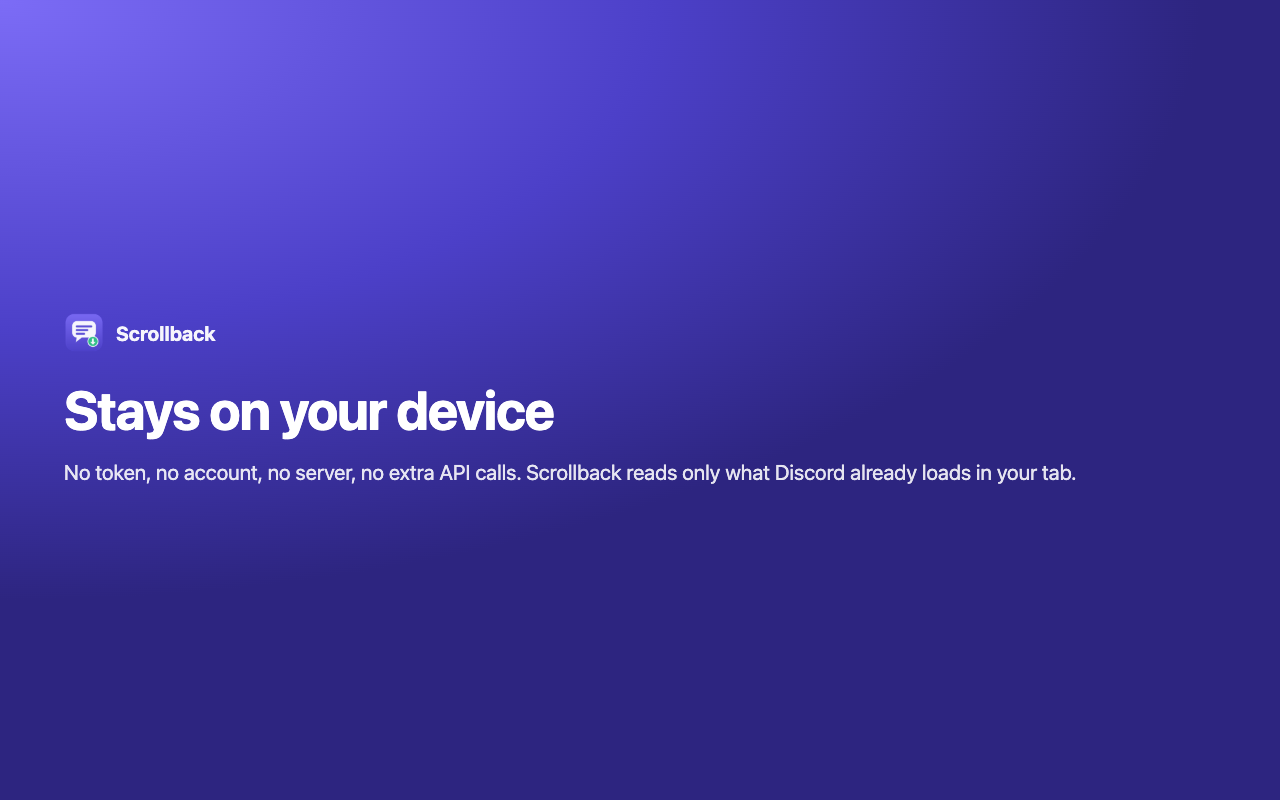
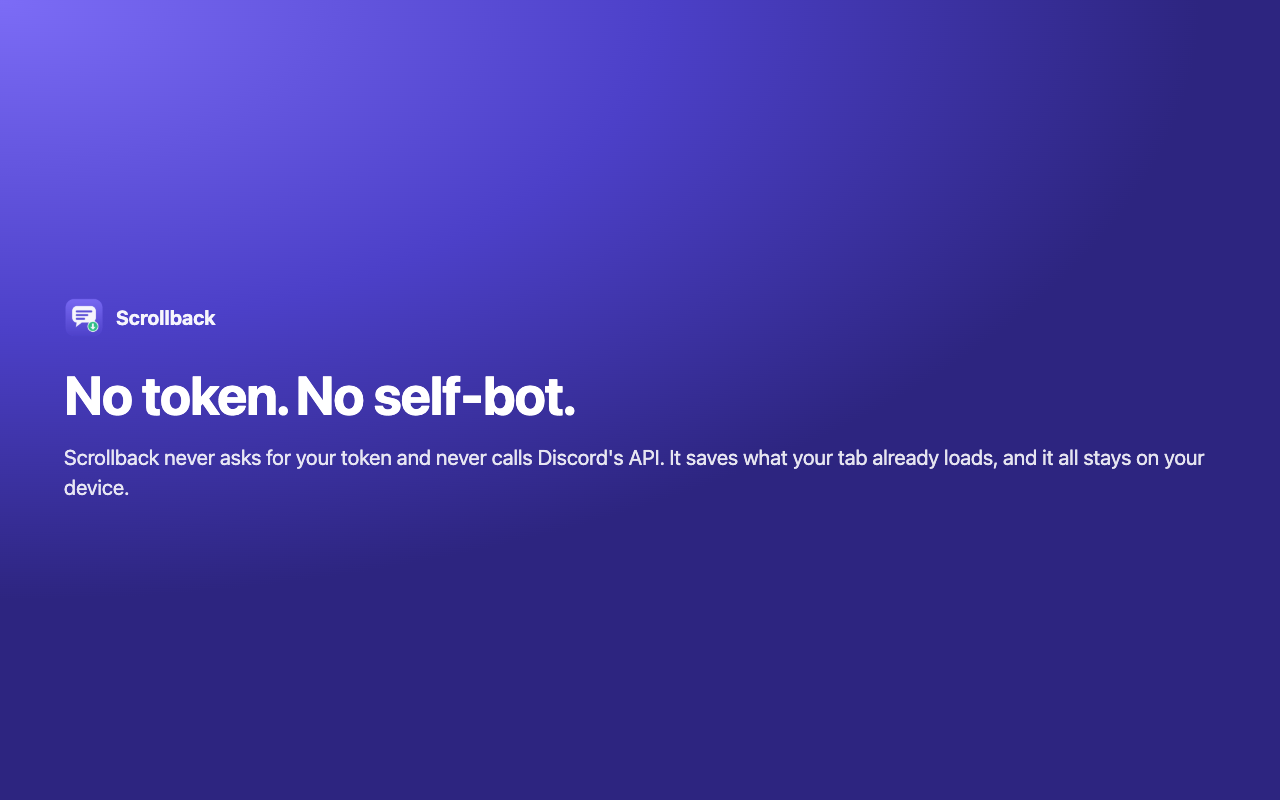
Lead the listing with no token and no self-bot

Changed region(s): [[0.0312, 0.4688, 0.9375, 0.625], [0.0312, 0.375, 0.1875, 0.4375]]

diff --git a/scripts/store-shots.js b/scripts/store-shots.js
@@ -134,9 +134,9 @@ async function frame(ctx, file, { title, sub, img, w = 1280, h = 800, imgW }) {
   await frame(ctx, path.join(S, '2-history.png'), { title: 'Load 7 days, 90 days or everything', sub: 'Scrollback scrolls the chat for you and shows progress right on the page.', img: path.join(RAW, 'job.png') });
   await frame(ctx, path.join(S, '3-library.png'), { title: 'Every saved chat in one place', sub: 'Search messages, export by date range, back up and restore.', img: path.join(RAW, 'library.png') });
   await frame(ctx, path.join(S, '4-export.png'), { title: 'Clean exports you can read', sub: 'Replies, reactions, images and day headers. Light and dark mode.', img: path.join(RAW, 'export.png') });
-  await frame(ctx, path.join(S, '5-privacy.png'), { title: 'Stays on your device', sub: 'No token, no account, no server, no extra API calls. Scrollback reads only what Discord already loads in your tab.' });
-  await frame(ctx, path.join(OUT, 'promo-440x280.png'), { title: 'Save your Discord chats', w: 440, h: 280 });
-  await frame(ctx, path.join(OUT, 'marquee-1400x560.png'), { title: 'Save, search and export your Discord chats', sub: 'Local only. No token. No extra API calls.', w: 1400, h: 560 });
+  await frame(ctx, path.join(S, '5-privacy.png'), { title: 'No token. No self-bot.', sub: 'Scrollback never asks for your token and never calls Discord\'s API. It saves what your tab already loads, and it all stays on your device.' });
+  await frame(ctx, path.join(OUT, 'promo-440x280.png'), { title: 'Export Discord chats. No token.', w: 440, h: 280 });
+  await frame(ctx, path.join(OUT, 'marquee-1400x560.png'), { title: 'Export your Discord chats without your token', sub: 'No token. No self-bot. It saves only what your Discord tab already loads.', w: 1400, h: 560 });
   fs.copyFileSync(path.join(OUT, '../icons/128.png'), path.join(OUT, 'icon-128.png'));
   await ctx.close();
   console.log(fs.readdirSync(S).filter((f) => f.endsWith('.png')).join('\n'));

diff --git a/README.md b/README.md
@@ -1,12 +1,12 @@
 <p align="center">
-  <img src="store/marquee-1400x560.png" alt="Scrollback: save, search and export your Discord chats" width="100%">
+  <img src="store/marquee-1400x560.png" alt="Scrollback: export your Discord chats without your token" width="100%">
 </p>
 
 <h1 align="center">Scrollback</h1>
 
 <p align="center">
   <b>Save, search and export the Discord chats you can already see.</b><br>
-  Local only. No token. No extra API calls.
+  No token. No self-bot. Local only.
 </p>
 
 <p align="center">
@@ -29,6 +29,19 @@
 Scrollback is a Chrome extension that keeps a copy of every Discord message your browser loads. Copy a whole chat in one click, export it to five formats, or let it scroll back through 7 days, 90 days or the full history for you.
 
 It never touches your login token and never calls Discord's API. It reads only the responses the Discord web app already downloads, so it acts the same as you scrolling by hand.
+
+### Why no token?
+
+Most Discord exporters ask for your login token and call Discord's API from a separate program. Discord treats that as a self-bot, and accounts get banned for it. Scrollback takes a different route:
+
+| | Token-based exporters | Scrollback |
+|---|---|---|
+| Needs your login token | Yes | No |
+| Who talks to Discord | The exporter, directly | Your normal Discord tab |
+| Speed of history loads | As fast as the API allows | A person scrolling |
+| Works offline on saved chats | No | Yes, from the library |
+
+History jobs still make Discord's client load pages, the same as scrolling by hand. For very large servers, set the pace to Gentle in the library settings.
 
 <table>
   <tr>

diff --git a/store/listing.md b/store/listing.md
@@ -4,11 +4,11 @@ Paste each block into the matching field of the developer dashboard.
 
 ## Item name (max 75)
 
-Scrollback: Chat Exporter for Discord
+Scrollback: Chat Exporter for Discord, No Token
 
 ## Summary (max 132)
 
-Save Discord chats you can already see to TXT, Markdown, HTML, JSON or CSV. Local only. No token, no extra API calls.
+Export Discord chats to TXT, Markdown, HTML, JSON or CSV. No token, no self-bot. It saves only what your Discord tab already loads.
 
 ## Category
 
@@ -23,6 +23,9 @@ English
 Scrollback keeps a copy of the Discord messages you open, so you can search them, export them and keep them.
 
 It works by reading the message lists your Discord tab already downloads. It sends no requests to Discord of its own and never touches your login token. Everything stays in your browser.
+
+NO TOKEN, NO SELF-BOT
+Most Discord exporters ask you to paste your login token into a separate program, which then calls Discord's API directly. That is a self-bot, and Discord bans accounts for it. Scrollback never asks for your token and never calls the API. When it loads history, it scrolls the real chat in your tab, at a person's pace, so Discord's own client does the loading.
 
 WHAT YOU CAN DO
 • Copy a whole chat to the clipboard in one click, ready to paste into notes or an AI assistant

diff --git a/CHANGELOG.md b/CHANGELOG.md
@@ -5,6 +5,7 @@
 - New: Scrollback remembers which stretches of a chat it saved with no gaps. A 7d / 30d / 90d / All run that is already covered copies to the clipboard instantly, with no scrolling. When new messages arrived since last time, it loads only that gap and stops. Server jobs skip channels that are already covered. Backups keep this information.
 - Fixed: a history job that started with the chat already scrolled to the top could end early without loading older messages. Most visible on slower machines.
 - Fixed: history and server jobs could stall when the Discord tab was in the background, because Chrome fires few scroll events there.
+- Store name is now "Scrollback: Chat Exporter for Discord, No Token", and the listing and README explain why it needs no token.
 
 ## 2.0.0 (2026-10-30)
 
